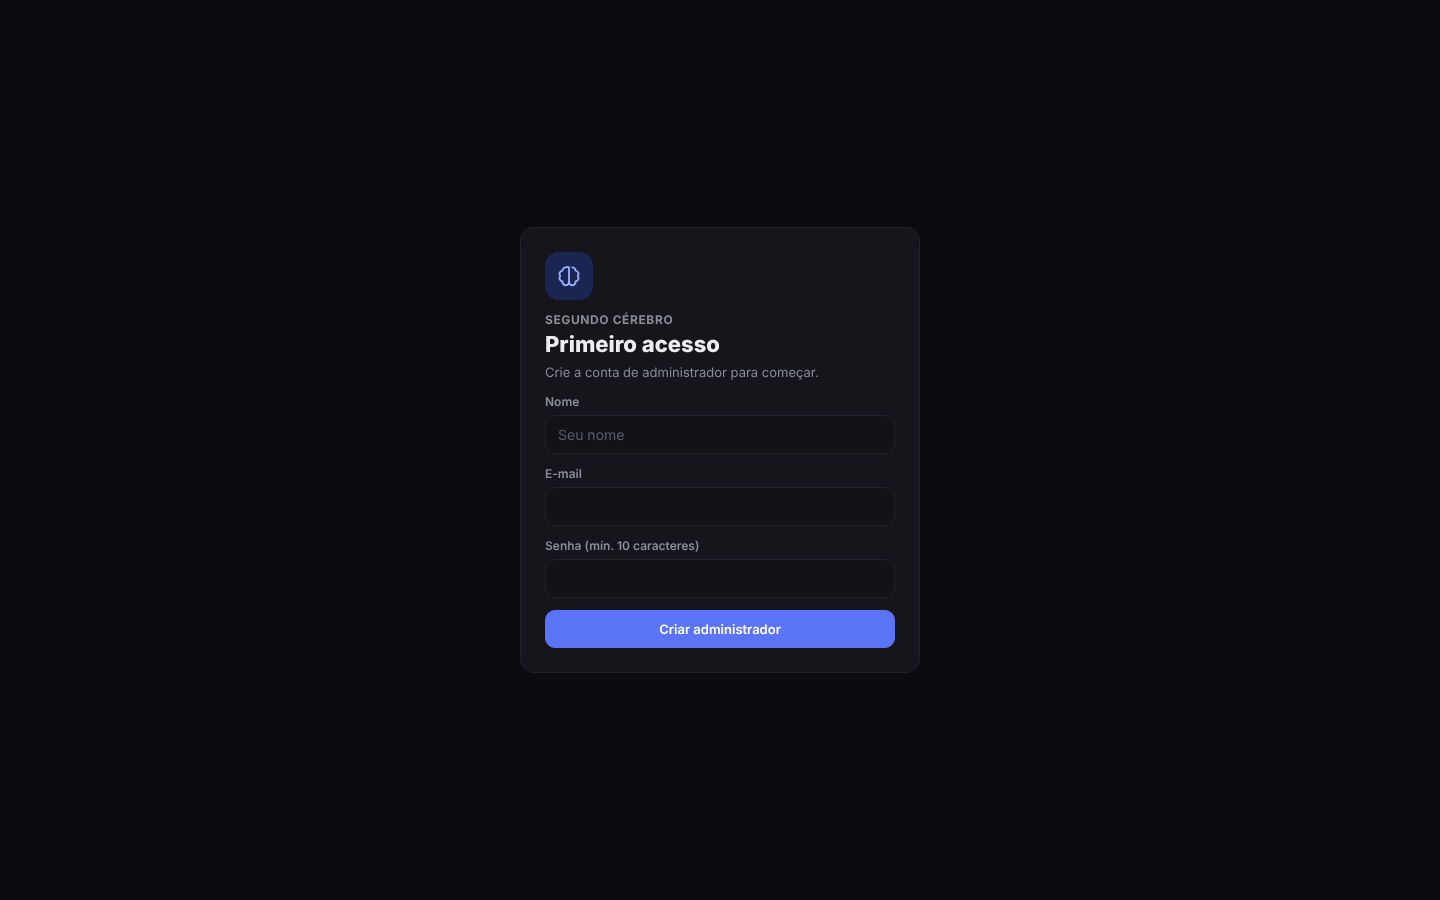
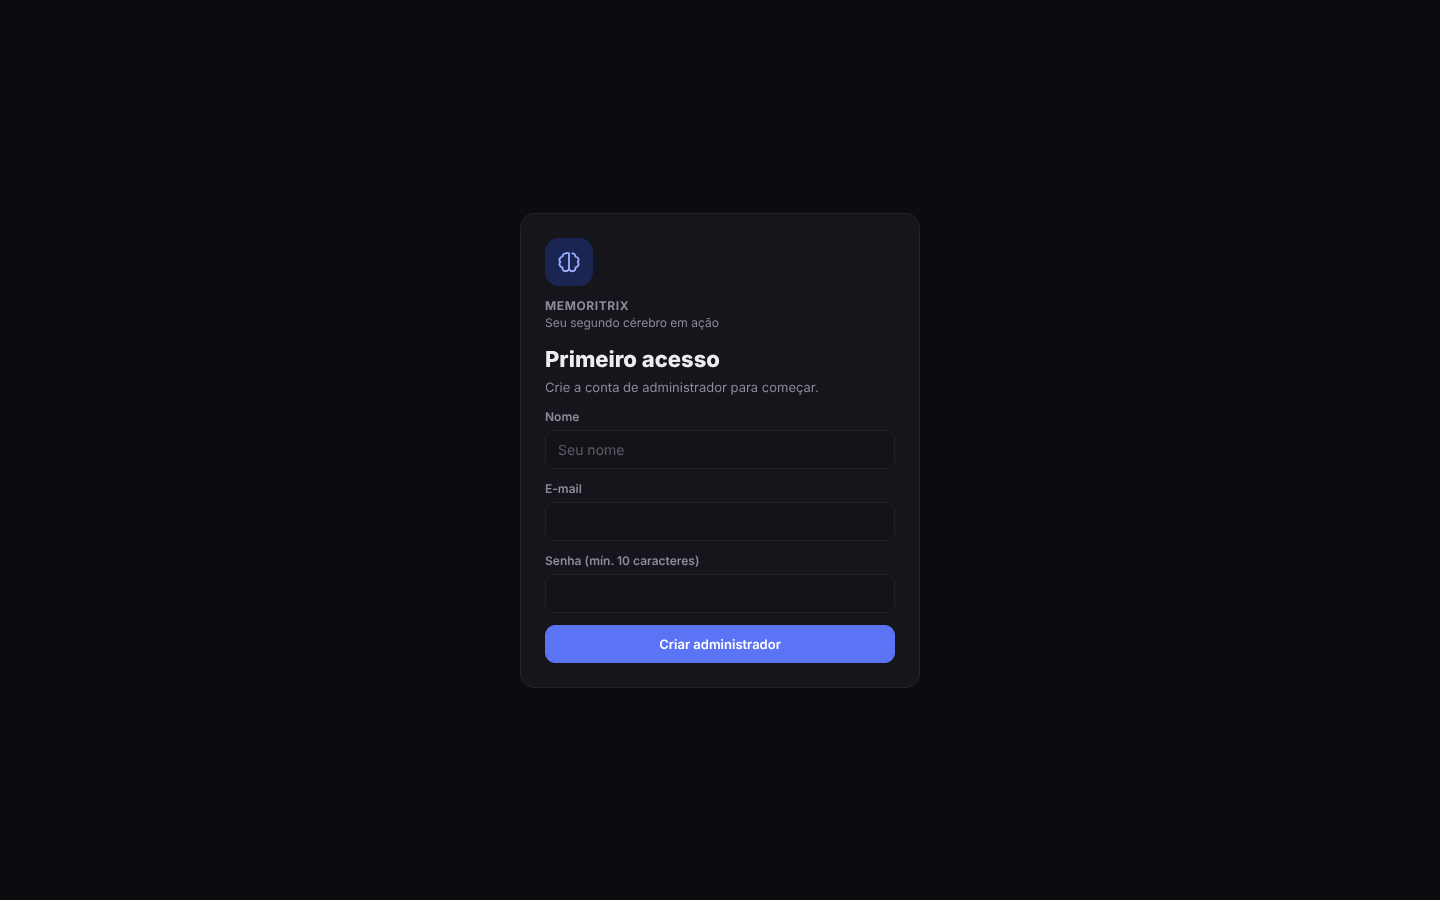
feat: renomear o app para Memoritrix (Seu segundo cérebro em ação)
Claude-Session: https://claude.ai/code/session_019Hv1WigYajj1PzWf5C2ud1

Changed region(s): [[0.375, 0.5911, 0.625, 0.7467], [0.375, 0.2489, 0.5625, 0.56]]

diff --git a/segundo-cerebro/apps/app/src/components/AuthCard.tsx b/segundo-cerebro/apps/app/src/components/AuthCard.tsx
@@ -9,7 +9,8 @@ export function AuthCard({ title, subtitle, children, footer }: { title: string;
       <ScrollView contentContainerStyle={styles.scroll} keyboardShouldPersistTaps="handled">
         <View style={styles.card}>
           <View style={styles.logo}><Icon name="brain" size={26} color={colors.accentText} /></View>
-          <Text style={styles.brand}>Segundo Cérebro</Text>
+          <Text style={styles.brand}>Memoritrix</Text>
+          <Text style={styles.tagline}>Seu segundo cérebro em ação</Text>
           <Text accessibilityRole="header" style={styles.title}>{title}</Text>
           {subtitle ? <Text style={styles.sub}>{subtitle}</Text> : null}
           <View style={{ gap: space.md, marginTop: space.md }}>{children}</View>
@@ -25,6 +26,7 @@ const styles = StyleSheet.create({
   card: { width: '100%', maxWidth: 400, backgroundColor: colors.panel, borderColor: colors.border, borderWidth: 1, borderRadius: radius.lg, padding: space.xl },
   logo: { width: 48, height: 48, borderRadius: 14, backgroundColor: colors.accentBg, alignItems: 'center', justifyContent: 'center', marginBottom: space.md },
   brand: { color: colors.muted, fontSize: 12, fontWeight: '700', letterSpacing: 0.6, textTransform: 'uppercase' },
+  tagline: { color: colors.muted, fontSize: 12, marginTop: 2, marginBottom: space.md },
   title: { color: colors.text, fontSize: 22, fontWeight: '800', marginTop: 4 },
   sub: { color: colors.muted, fontSize: 13, marginTop: 6, lineHeight: 19 },
 });

diff --git a/segundo-cerebro/apps/api/src/modules/assistant/settings.ts b/segundo-cerebro/apps/api/src/modules/assistant/settings.ts
@@ -28,7 +28,7 @@ export function saveSettings(deps: Deps, userId: string, patch: Partial<Assistan
 
 export function buildSystem(s: AssistantSettings, userName: string, now: Date): string {
   const lines = [
-    `Você é o assistente do "Segundo Cérebro" de ${userName}: um app de agenda, tarefas (GTD), notas ligadas e mapas mentais.`,
+    `Você é o assistente do "Memoritrix" ("Seu segundo cérebro em ação") de ${userName}: um app de agenda, tarefas (GTD), notas ligadas e mapas mentais.`,
     `Hoje é ${now.toISOString().slice(0, 10)}. Responda em ${s.language}. Tom das respostas: ${s.tone}.`,
     'Use as ferramentas para registrar tarefas, notas, eventos e mapas quando o usuário pedir, e confirme brevemente o que foi feito.',
     'Não invente informações do usuário: busque nas notas e itens antes de afirmar algo.',

diff --git a/segundo-cerebro/apps/api/src/main.ts b/segundo-cerebro/apps/api/src/main.ts
@@ -19,4 +19,4 @@ await ensureAdmin(db, cfg);
 
 const app = await buildServer({ db, cfg, now: () => new Date(), mailer: createMailer(cfg.smtpUrl) });
 await app.listen({ port: cfg.port, host: '0.0.0.0' });
-console.log(`Segundo Cérebro em http://localhost:${cfg.port} — app web: ${cfg.webDir ? 'servido' : 'não exportado (rode npm run build)'} — IA: ${cfg.anthropicKey ? 'Claude' : 'modo demo'}`);
+console.log(`Memoritrix em http://localhost:${cfg.port} — app web: ${cfg.webDir ? 'servido' : 'não exportado (rode npm run build)'} — IA: ${cfg.anthropicKey ? 'Claude' : 'modo demo'}`);

diff --git a/segundo-cerebro/apps/api/src/modules/notes/routes.ts b/segundo-cerebro/apps/api/src/modules/notes/routes.ts
@@ -113,7 +113,7 @@ export async function noteRoutes(app: FastifyInstance) {
   app.get('/api/export', { preHandler: requirePermission(app, 'export.data') }, async (req, reply) => {
     return reply
       .header('content-type', 'application/zip')
-      .header('content-disposition', 'attachment; filename="segundo-cerebro.zip"')
+      .header('content-disposition', 'attachment; filename="memoritrix.zip"')
       .send(exportZip(deps, req.user!.id));
   });
 }

diff --git a/segundo-cerebro/apps/app/app/(main)/library/index.tsx b/segundo-cerebro/apps/app/app/(main)/library/index.tsx
@@ -66,7 +66,7 @@ export default function Library() {
   }
 
   async function doExport() {
-    try { downloadBlob(await apiBlob('/api/export'), 'segundo-cerebro.zip'); toast.show('Exportação iniciada', 'success'); } catch (e: any) { toast.show(e.message, 'error'); }
+    try { downloadBlob(await apiBlob('/api/export'), 'memoritrix.zip'); toast.show('Exportação iniciada', 'success'); } catch (e: any) { toast.show(e.message, 'error'); }
   }
 
   return (

diff --git a/segundo-cerebro/apps/api/src/modules/recovery/mailer.ts b/segundo-cerebro/apps/api/src/modules/recovery/mailer.ts
@@ -9,7 +9,7 @@ export class ConsoleMailer implements Mailer {
 
 export class SmtpMailer implements Mailer {
   private tx;
-  constructor(url: string, private from = 'Segundo Cérebro <no-reply@localhost>') {
+  constructor(url: string, private from = 'Memoritrix <no-reply@localhost>') {
     this.tx = nodemailer.createTransport(url);
   }
   async send(to: string, subject: string, text: string): Promise<void> {

diff --git a/segundo-cerebro/README.md b/segundo-cerebro/README.md
@@ -1,4 +1,6 @@
-# Segundo Cérebro
+# Memoritrix
+
+> **Seu segundo cérebro em ação.**
 
 Protótipo de um **segundo cérebro pessoal** para web e mobile: caixa de entrada GTD, agenda, notas estilo Obsidian
 (`[[links]]`, backlinks, grafo), **mapas mentais interativos**, um **assistente de IA** que entende texto, voz e foto e
